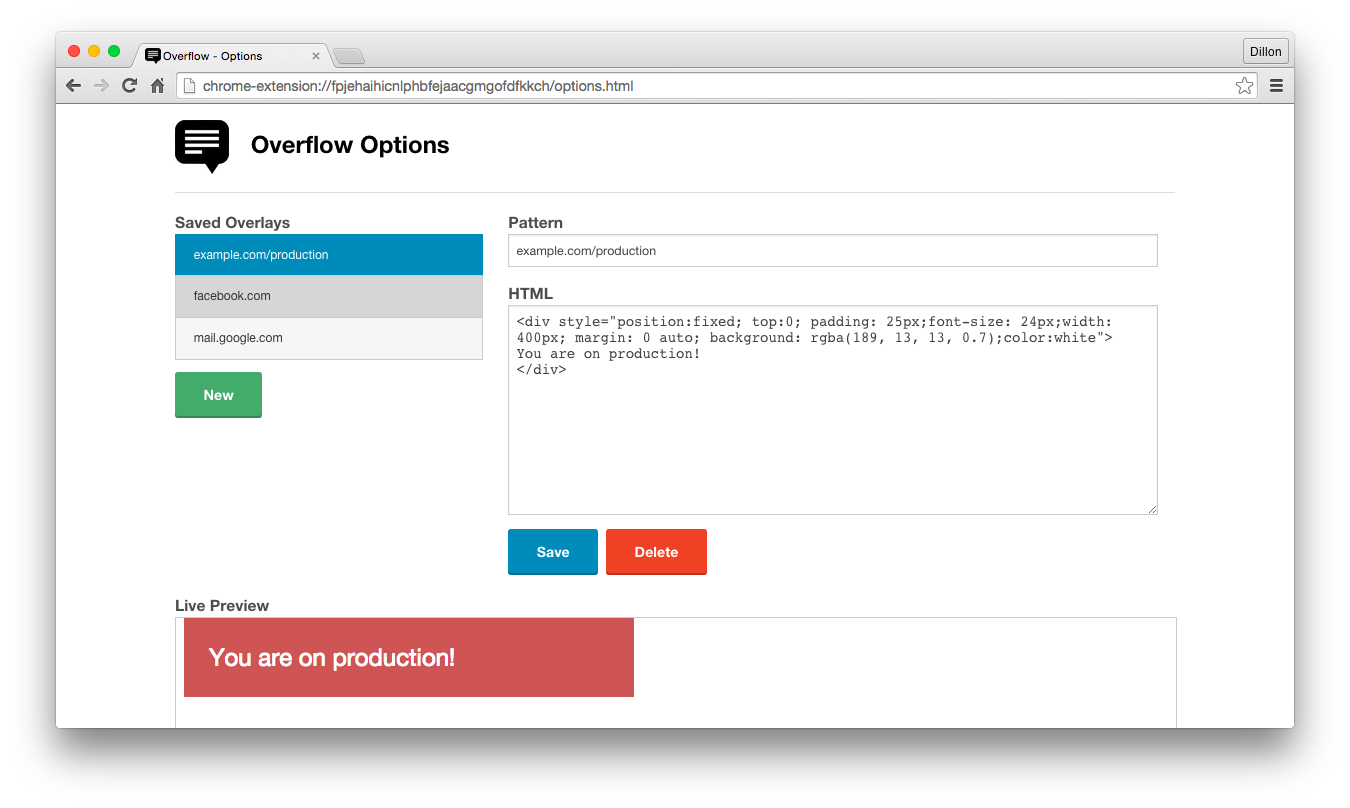
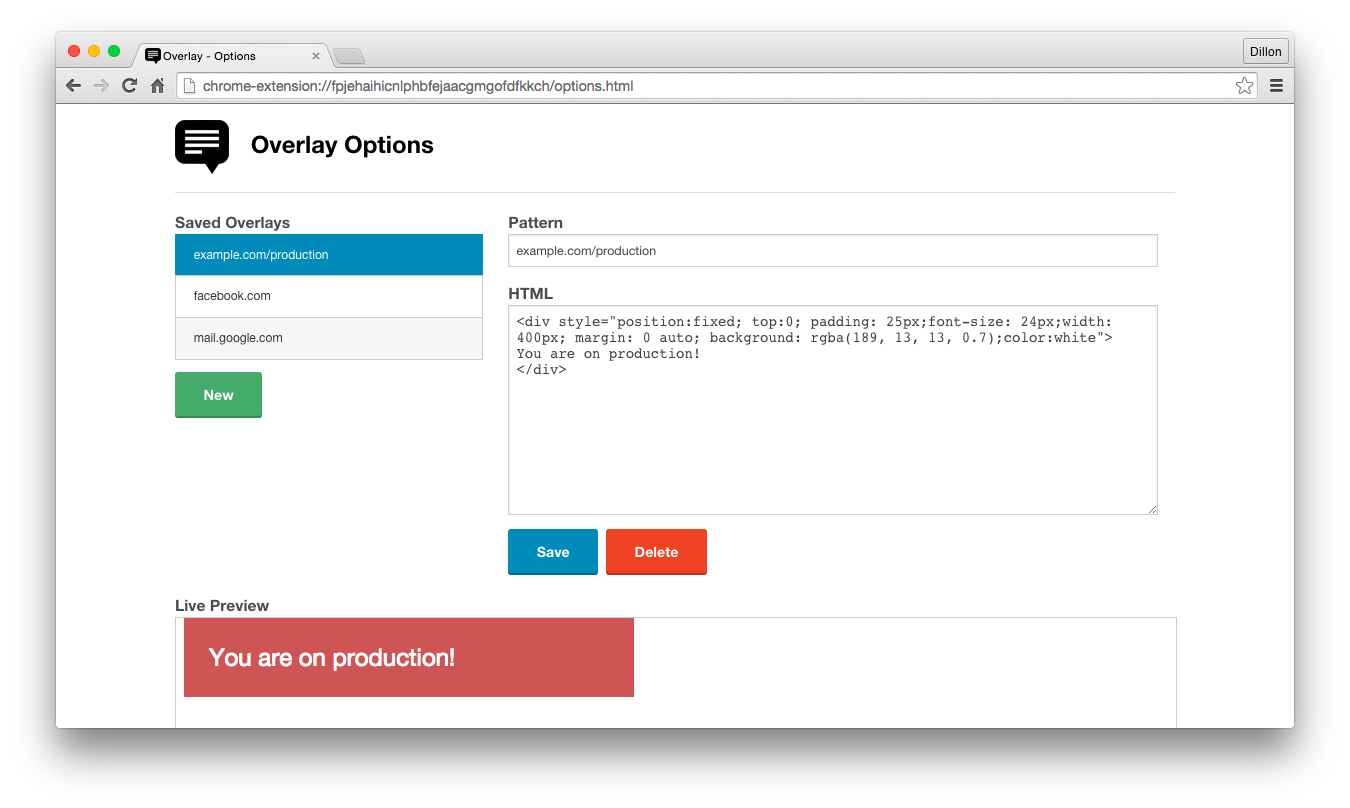
Fix typo in name

Changed region(s): [[0.1244, 0.3403, 0.3733, 0.4022], [0.2178, 0.1547, 0.3422, 0.2166], [0.1244, 0.0619, 0.1867, 0.0928]]

diff --git a/options.html b/options.html
@@ -1,15 +1,15 @@
 <!DOCTYPE html>
 <html>
   <head>
-    <title>Overflow - Options</title>
+    <title>Overlay - Options</title>
     <link rel="stylesheet" href="/style.css">
   </head>
   <body>
     <div id="main">
       <div class="header">
         <h1>
-          <img src='icon-128.png' alt='Overflow' />
-          Overflow Options
+          <img src='icon-128.png' alt='Overlay' />
+          Overlay Options
         </h1>
         <hr />
       </div>
